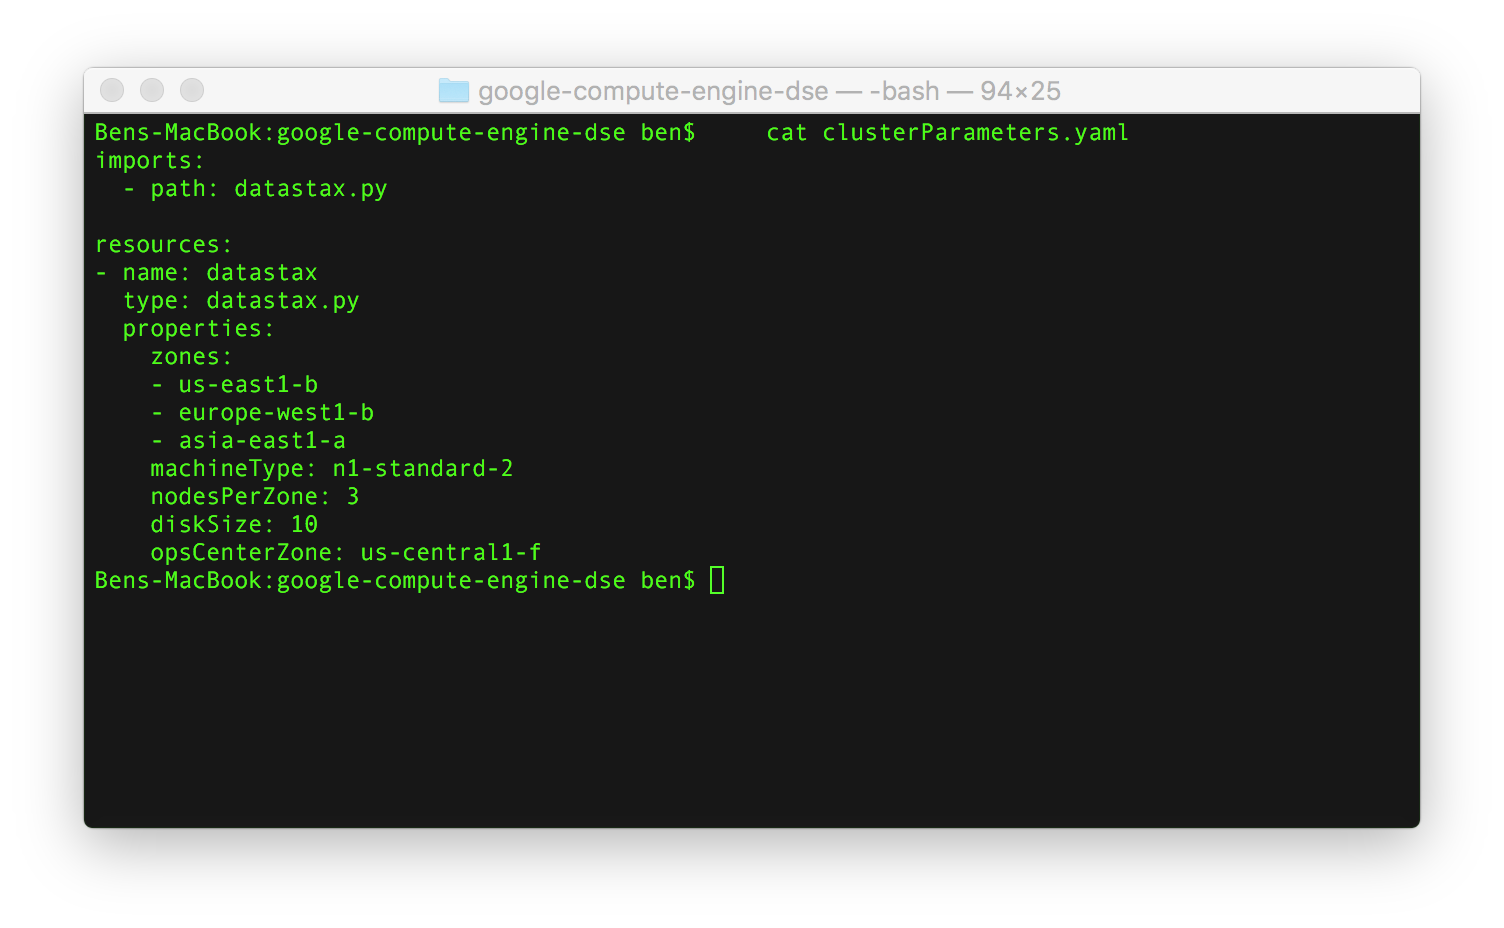
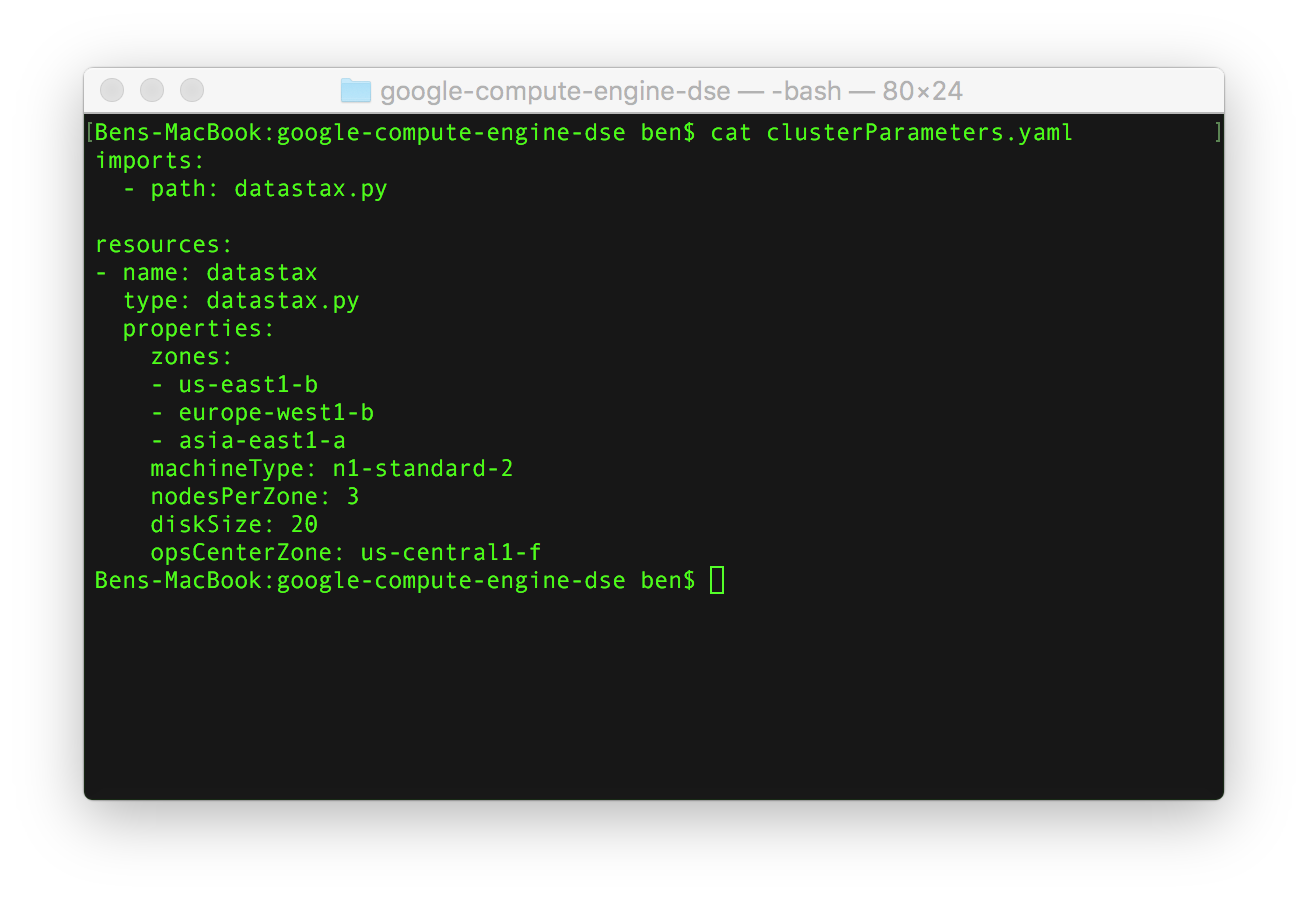
fix disk size issue

Changed region(s): [[0.0306, 0.0622, 0.948, 0.9022]]

diff --git a/README.md b/README.md
@@ -52,7 +52,7 @@ This is an extremely simple shell script that invokes the Google Cloud SDK. It t
 
 ![](./img/catclusterparameters.png)
 
-This config is going to create 3 nodes in each of 3 different regions, for a total of 9 nodes. Each node is a very small machine, an n1-standard-2. This isn’t a size we’d recommend for production use but is fine for testing out a deployment. Similarly, each node will be configured with a 10GB pd-ssd.  This is an extremely small disk but will be sufficient for our test deployment.
+This config is going to create 3 nodes in each of 3 different regions, for a total of 9 nodes. Each node is a very small machine, an n1-standard-2. This isn’t a size we’d recommend for production use but is fine for testing out a deployment. Similarly, each node will be configured with a 20GB pd-ssd.  This is an extremely small disk but will be sufficient for our test deployment.
 
 Two example config files are provided, clusterParameters.small.yaml and clusterParameters.large.yaml. The large one creates nodes in every Google zone currently available. You may need to request you core quotas be increased to run it.
 
@@ -64,6 +64,7 @@ Now that we’ve had a look through the project, let’s try running it!
 
 We’re going to start of by creating a new deployment. I’m going to call mine ben1. To create it, I’m going to enter the command:
 
+    clear
     ./deploy.sh ben1
 
 When I do that, I see the following output:
